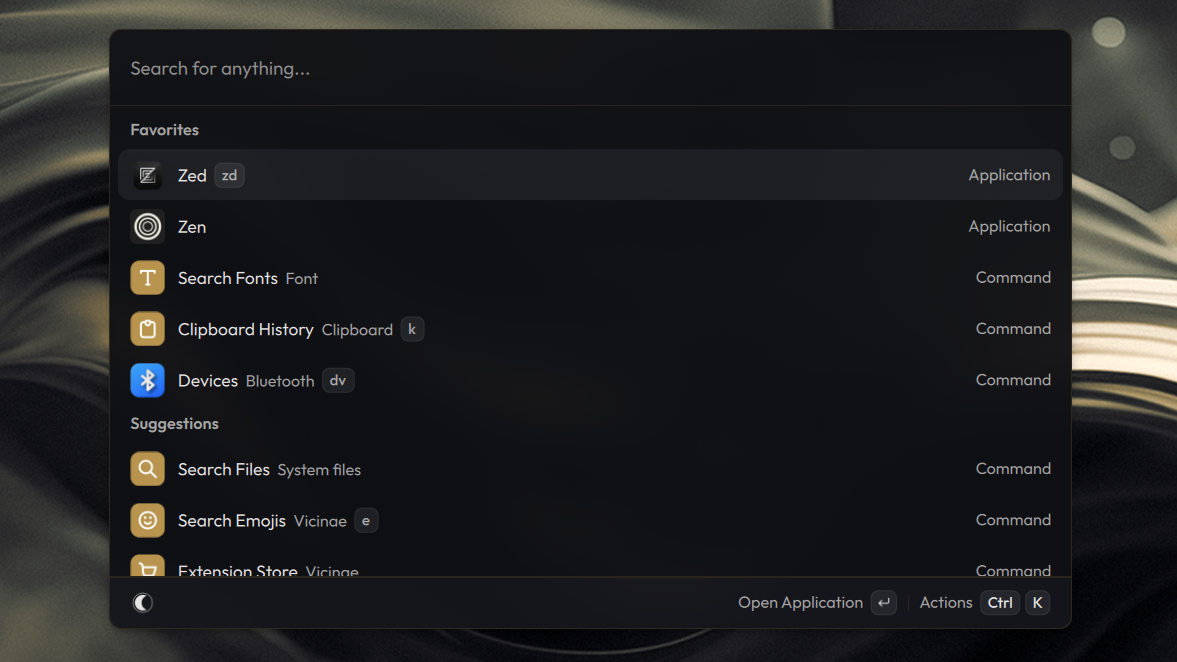
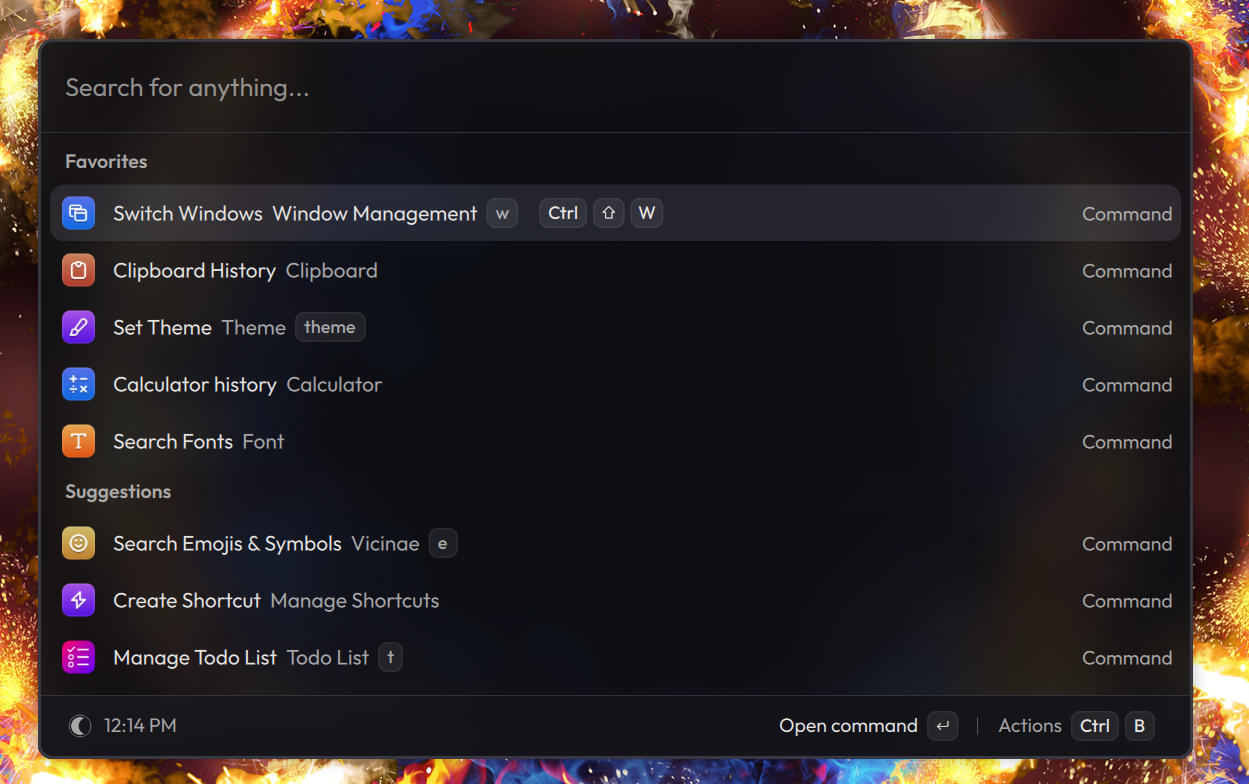
chore: update README

Changed region(s): [[0.0, 0.0, 1.0, 1.0]]

diff --git a/README.md b/README.md
@@ -29,7 +29,7 @@ Out of the box, Vicinae can be your:
 - [browser tab switcher](https://docs.vicinae.com/browser-extension)
 - [emoji picker](https://docs.vicinae.com/emoji)
 - [calculator](https://docs.vicinae.com/calculator)
-- [window switcher](https://docs.vicinae.com/window)
+- [window/workspace switcher](https://docs.vicinae.com/window)
 - font browser
 - volume controller
 
@@ -93,4 +93,4 @@ Everything you need to know to get started with Vicinae is at [vicinae.com](http
 
 ## Acknowledgments
 
-Special thanks to the [Soulver](https://soulver.app?utm_source=vicinae&utm_medium=readme) team for allowing us to ship SoulverCore as the default calculator backend on macOS.
+Special thanks to the [Soulver](https://soulver.app?utm_source=vicinae&utm_medium=readme) team for allowing us to ship SoulverCore as a calculator backend option on macOS.
